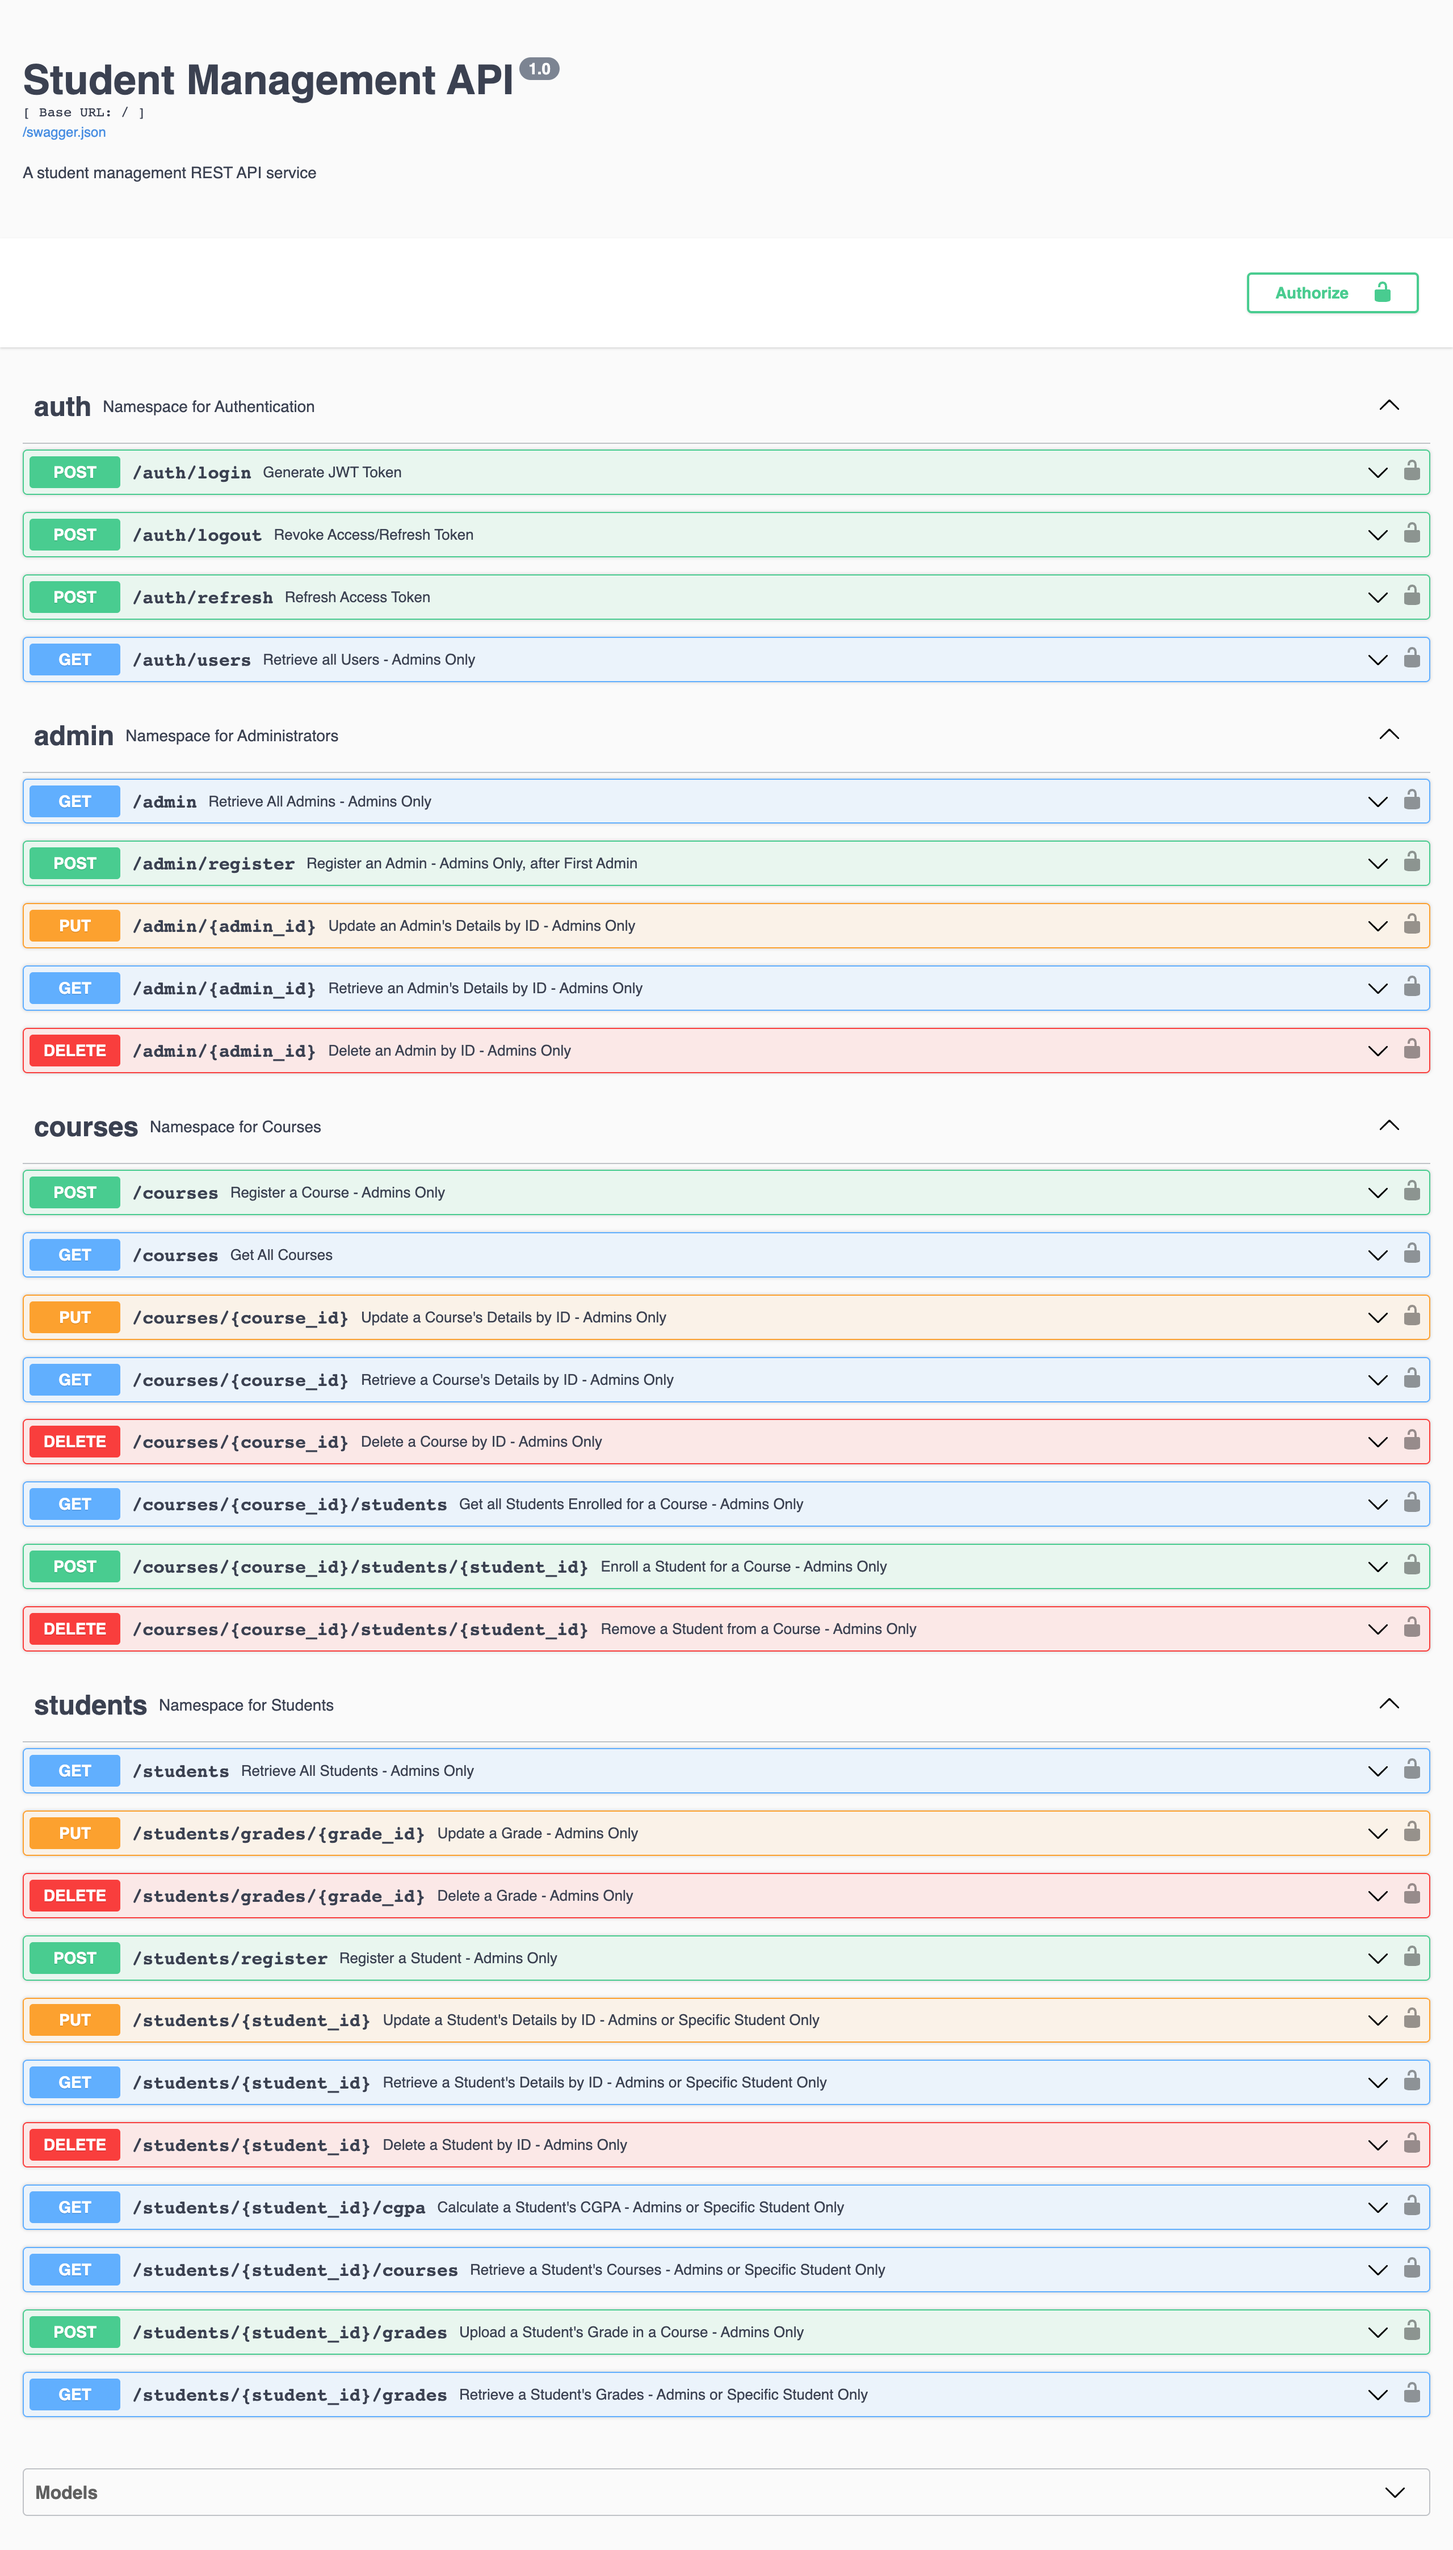
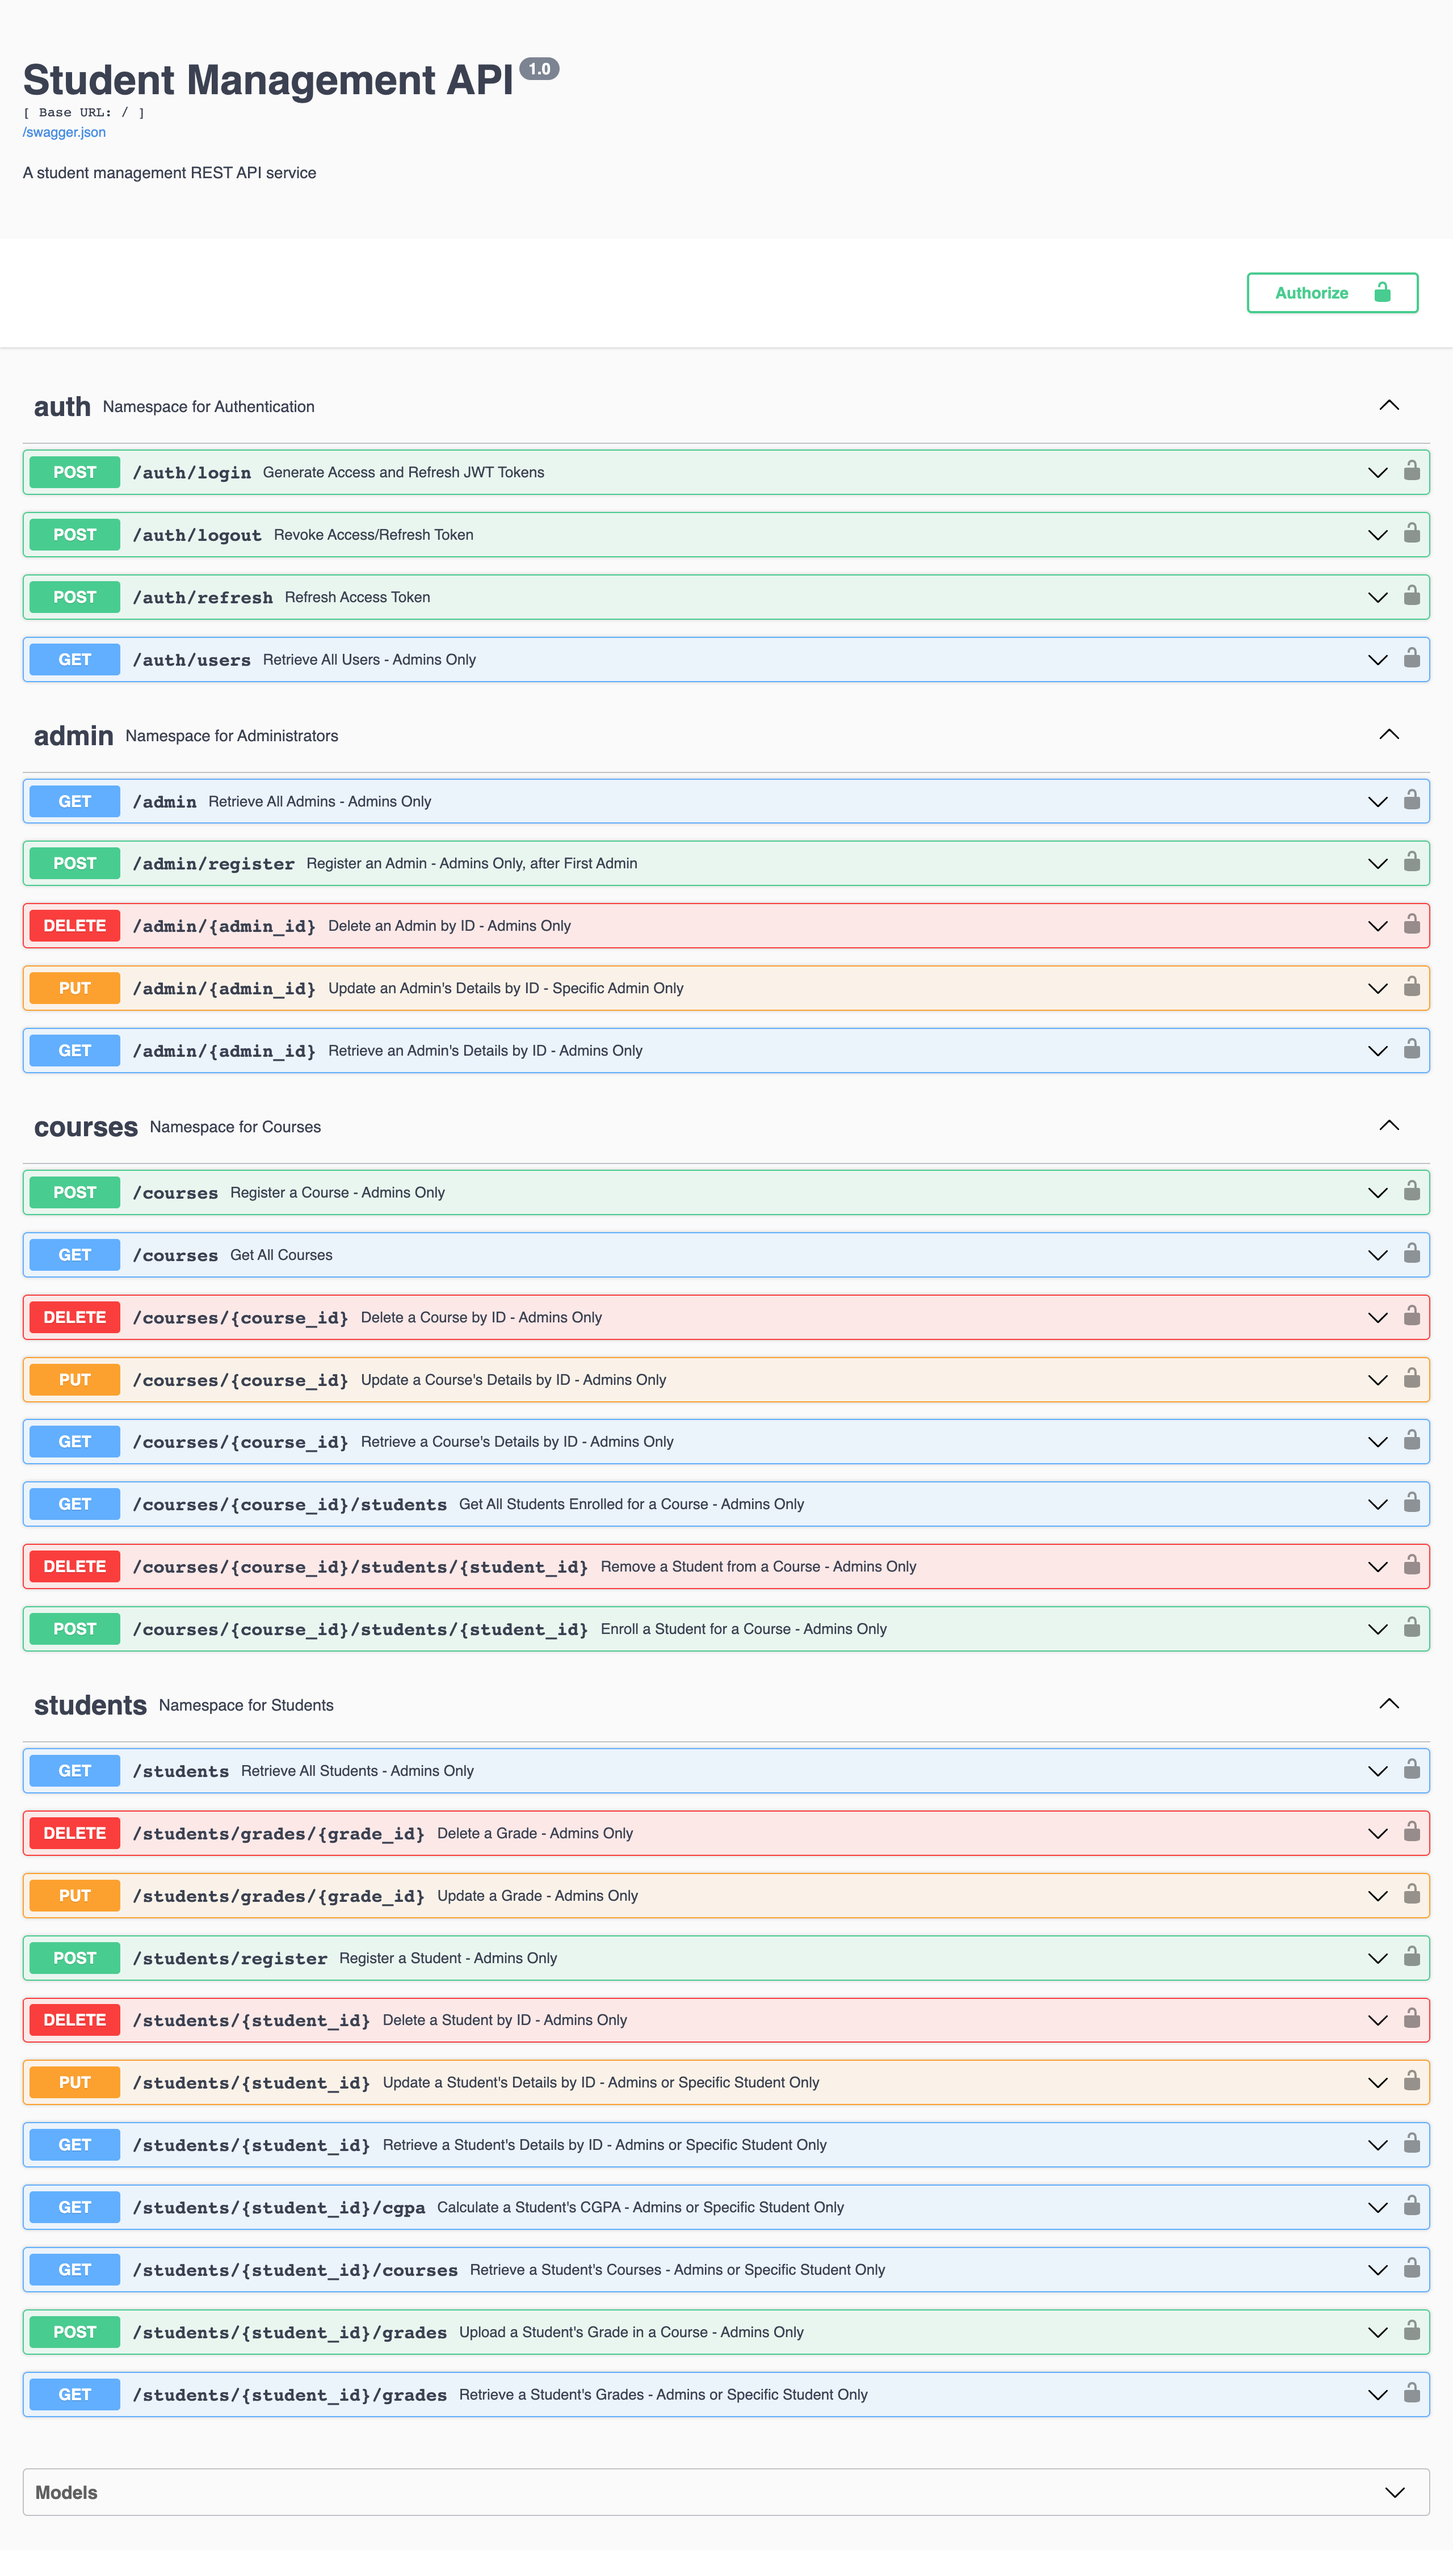
Edit documentation to be better organized

diff --git a/api/auth/views.py b/api/auth/views.py
@@ -1,4 +1,3 @@
-from flask import request
 from flask_restx import Namespace, Resource, fields
 from ..models.users import User
 from ..utils.blacklist import BLACKLIST
@@ -31,12 +30,12 @@ login_model = auth_namespace.model(
 class GetAllUsers(Resource):
     @auth_namespace.marshal_with(user_model)
     @auth_namespace.doc(
-        description="Retrieve all users"
+        description = "Retrieve All Users - Admins Only"
     )
     @admin_required()
     def get(self):
         """
-            Retrieve all Users - Admins Only
+            Retrieve All Users - Admins Only
         """
         users = User.query.all()
 
@@ -45,9 +44,12 @@ class GetAllUsers(Resource):
 @auth_namespace.route('/login')
 class Login(Resource):
     @auth_namespace.expect(login_model)
+    @auth_namespace.doc(
+        description = "Generate Access and Refresh JWT Tokens"
+    )
     def post(self):
         """
-            Generate JWT Token
+            Generate Access and Refresh JWT Tokens
         """
         data = auth_namespace.payload
 
@@ -70,6 +72,9 @@ class Login(Resource):
 
 @auth_namespace.route('/refresh')
 class Refresh(Resource):
+    @auth_namespace.doc(
+        description = "Refresh Access Token"
+    )
     @jwt_required(refresh=True)
     def post(self):
         """
@@ -84,6 +89,9 @@ class Refresh(Resource):
 
 @auth_namespace.route('/logout')
 class Logout(Resource):
+    @auth_namespace.doc(
+        description = "Revoke Access/Refresh Token"
+    )
     @jwt_required(verify_type=False)
     def post(self):
         """

diff --git a/api/courses/views.py b/api/courses/views.py
@@ -137,7 +137,7 @@ class GetUpdateDeleteCourse(Resource):
 class GetAllCourseStudents(Resource):
 
     @course_namespace.doc(
-        description = "Get all Students Enrolled for a Course - Admins Only",
+        description = "Get All Students Enrolled for a Course - Admins Only",
         params = {
             'course_id': "The Course's ID"
         }
@@ -145,7 +145,7 @@ class GetAllCourseStudents(Resource):
     @admin_required()
     def get(self, course_id):
         """
-            Get all Students Enrolled for a Course - Admins Only
+            Get All Students Enrolled for a Course - Admins Only
         """
         students = StudentCourse.get_students_in_course(course_id)
         resp = []
@@ -206,7 +206,7 @@ class AddDropCourseStudent(Resource):
         return course_student_resp, HTTPStatus.CREATED
 
     @course_namespace.doc(
-        description='Remove a Student from a Course',
+        description = 'Remove a Student from a Course - Admins Only',
         params = {
             'course_id': "The Course's ID",
             'student_id': "The Student's ID"

diff --git a/api/admin/views.py b/api/admin/views.py
@@ -104,7 +104,7 @@ class GetUpdateDeleteAdmins(Resource):
     
     @admin_namespace.expect(admin_signup_model)
     @admin_namespace.doc(
-        description = "Update an Admin's Details by ID - Admins Only",
+        description = "Update an Admin's Details by ID - Specific Admin Only",
         params = {
             'admin_id': "The Admin's ID"
         }
@@ -112,7 +112,7 @@ class GetUpdateDeleteAdmins(Resource):
     @admin_required()
     def put(self, admin_id):
         """
-            Update an Admin's Details by ID - Admins Only
+            Update an Admin's Details by ID - Specific Admin Only
         """
         admin = Admin.get_by_id(admin_id)
         active_admin = get_jwt_identity()
